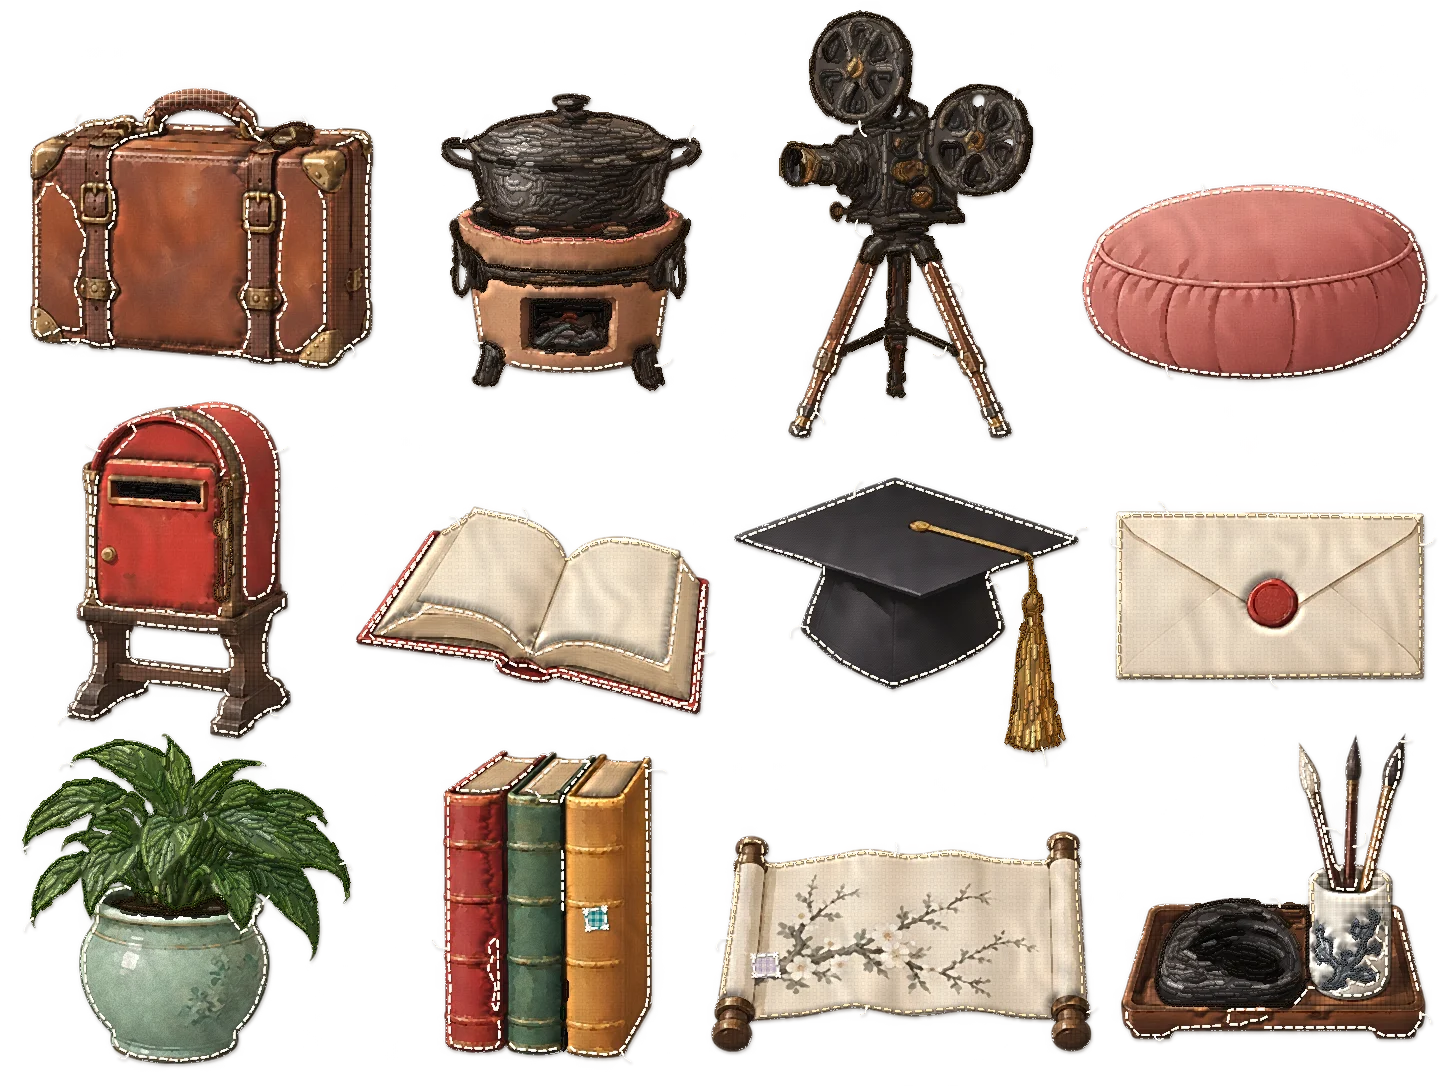
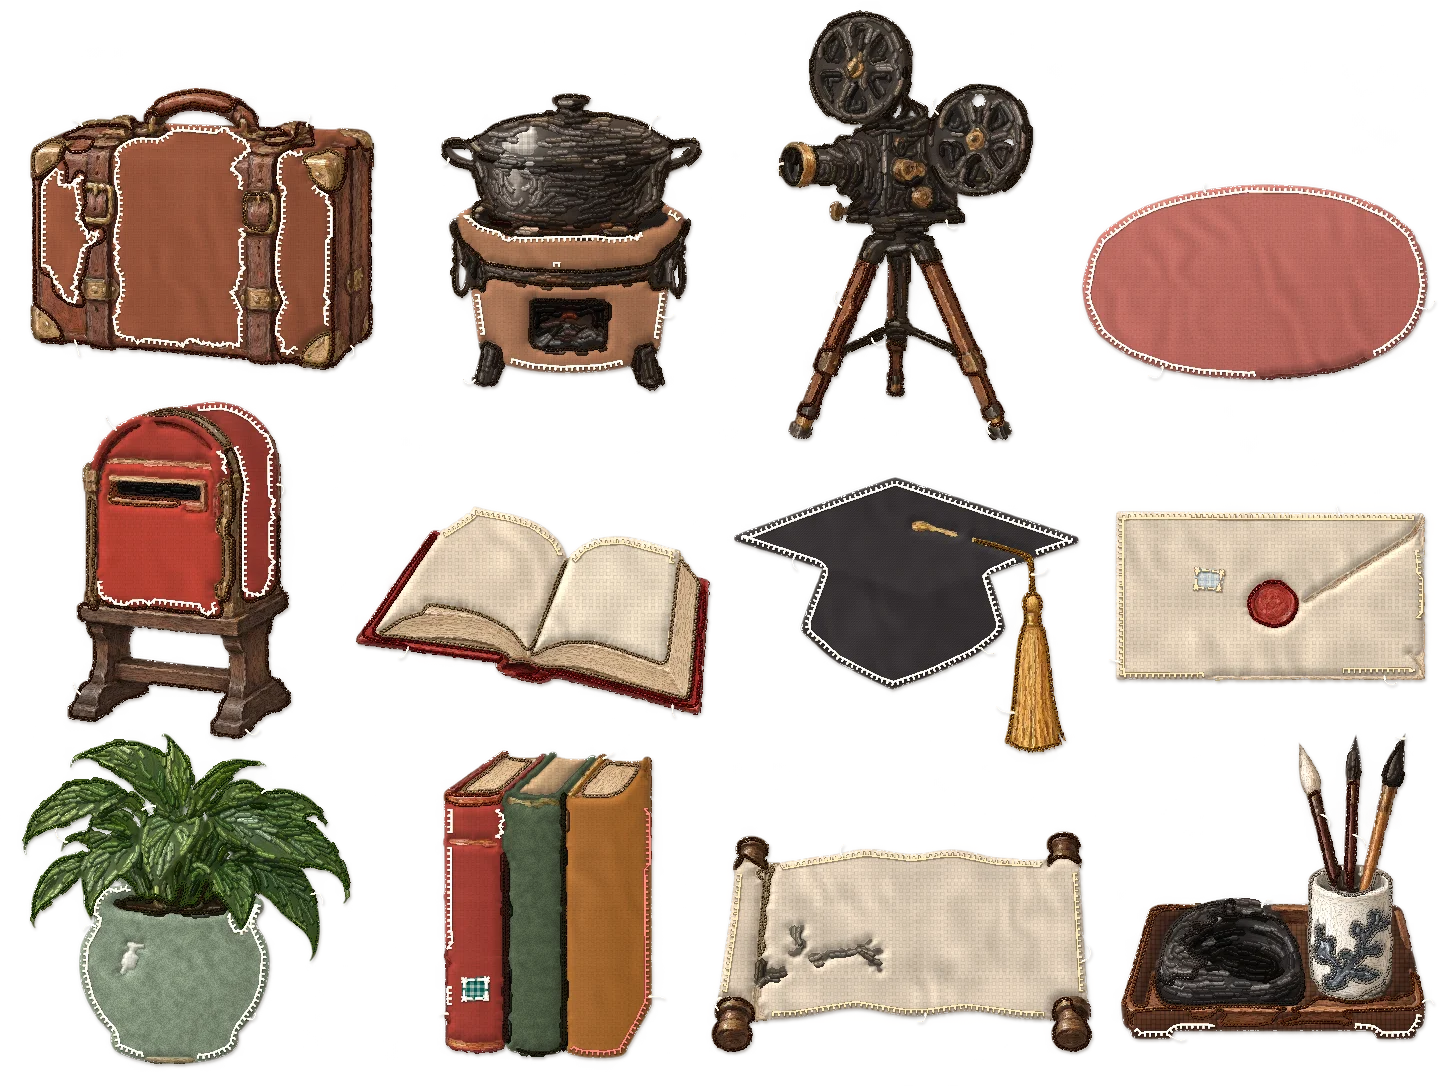
2D cloth: appliqué and embroidery together
- Plain areas become plain dyed cloth pieces (a finer cut, so windows,
  doors and pillars are their own pieces), with raw fraying edges where they
  lie on larger pieces, sewn down with blanket stitch.
- Detailed parts are embroidered: roofs and leaves in coarse satin floss with
  a chain-stitched edge; windows, brackets and carving in fine stitches in
  the painting's own colours, so their detail stays.
- Character, cats and faces unchanged from the previous pass.

Claude-Session: https://claude.ai/code/session_014GcVETBqDYWRJNBAnWSkWH

diff --git a/tools/fabricize.py b/tools/fabricize.py
@@ -77,7 +77,11 @@ EMB_DETAIL = 4.6     # pieces whose painted texture is busier than this (mean fi
 QUILT, QUILT_MIN = 0, 70    # quilting rows across large plain pieces: spacing and smallest piece (screen px)
 FLAT_PRINT = .3      # how much of the painting's fine detail stays printed on the flat cloth
 APP_MIN, APP_DE, APP_EDGE = 22, 10, 12  # scene pieces: smallest piece (screen px), merge colour step, edge guard
-SCENE_CUT = 'coarse'   # 'coarse': large pieces snapped to the painted outlines; 'appliqué': flat cut-cloth shapes
+SCENE_CUT = 'patch'    # 'patch': plain appliqué cloth pieces + embroidery; 'coarse': printed pieces; 'appliqué': scissor-cut shapes
+PATCH_CUT, PATCH_MIN = .55, 12 
+PATCH_DETAIL = 5.2   # appliqué: pieces with this much painted detail (windows, brackets, carving) are embroidered
+DETAIL_W, DETAIL_L, DETAIL_COVER = .7, 3.6, 3.2   # their fine stitches  # appliqué: a finer cut (windows, doors and pillars are pieces of their own)
+BLANKET_MIN, BLANKET_STEP = 34, 6.4   # pieces at least this big get blanket stitch; its spacing (screen px)
 SCISSORS = 2.6       # outlines are simplified to straight cuts within this tolerance (screen px)
 
 
@@ -314,12 +318,12 @@ def nearest_fill(pid, cover):
     return np.where(cover & ~src, near, pid).astype(np.int32)
 
 
-def cut_pieces(bgr_f, alpha, u, face, rig, rng):
+def cut_pieces(bgr_f, alpha, u, face, rig, rng, cut=None, piece_min=None):
     """Cut the picture into a few large pieces of cloth. The cut is made at a coarse scale (a working
     pixel is about three screen pixels), so fine painted texture such as roof tiles, bark or leaves
     does not split a piece: a whole roof stays one piece, with its tiles printed on it."""
     H, W = bgr_f.shape[:2]
-    ws = float(np.clip(CUT / u, .03, 1.0))                 # working pixels per source pixel
+    ws = float(np.clip((cut or CUT) / u, .03, 1.0))       # working pixels per source pixel
     sc = ws * u                                            # working pixels per screen pixel
     sw, sh = max(8, int(round(W * ws))), max(8, int(round(H * ws)))
     small = cv2.resize(bgr_f, (sw, sh), interpolation=cv2.INTER_AREA)
@@ -338,7 +342,7 @@ def cut_pieces(bgr_f, alpha, u, face, rig, rng):
     q = ((feat.reshape(-1, 1, 3) - centers[None]) ** 2).sum(2).argmin(1).reshape(sh, sw)
     q = mode_filter(q, 3)
     lab_small = cv2.cvtColor(sm8.astype(np.float32) / 255, cv2.COLOR_BGR2Lab)
-    piece_min = PIECE_MIN * (.45 if rig or face else 1)
+    piece_min = (piece_min or PIECE_MIN) * (.45 if rig or face else 1)
     min_px = (piece_min * sc) ** 2
     pid = merge_small(components(q, valid), min_px, lab_small)
     pid = merge_similar(pid, lab_small, MERGE_DE * (.6 if face else 1), EDGE_MAX)
@@ -506,6 +510,28 @@ class Needle:
 
     def coverage(self):
         return np.clip(self.thread[..., 3], 0, 1)
+
+
+def blanket(needle, pts, color, pid, k, inset, u):
+    """Blanket stitch, the appliqué stitch: bars across the cut edge, joined by a thread that runs
+    along the very edge of the piece."""
+    H, W = pid.shape
+    seg = np.sqrt(((pts[1:] - pts[:-1]) ** 2).sum(1)); Lc = np.concatenate([[0], np.cumsum(seg)])
+    step = BLANKET_STEP * u
+    if Lc[-1] < step * 2: return
+    prev = None
+    for d in np.arange(step * .5, Lc[-1], step):
+        i = int(np.clip(np.searchsorted(Lc, d) - 1, 0, len(seg) - 1)); v = (d - Lc[i]) / max(seg[i], 1e-6)
+        p = pts[i] * (1 - v) + pts[i + 1] * v
+        t = pts[i + 1] - pts[i]; t = t / (np.hypot(*t) + 1e-6); nrm = np.float32([-t[1], t[0]])
+        q = p + nrm * (inset + u)
+        X, Y = int(q[0]), int(q[1])
+        if 0 <= X < W and 0 <= Y < H and pid[Y, X] == k: nrm = -nrm          # point it outwards
+        edge = p + nrm * inset * .9
+        w = needle.w * .75
+        needle.stitch(p - nrm * inset * .2, edge, color, w)
+        if prev is not None and np.hypot(*(edge - prev)) < step * 2.2: needle.stitch(prev, edge, color, w)
+        prev = edge
 
 
 def runs_along(pts, inside, outside_ok, step):
@@ -999,9 +1025,11 @@ def fabricize(name, img, over=1):
         pid_s, ws = appliqué_pieces(bgr_f, alpha, u, rng)
         pid, _ = cut_with_scissors(pid_s, ws, W, H, u, alpha)
     else:
-        pid_s, ws = cut_pieces(bgr_f, alpha, u, face, rig, rng)
+        patch = kind == 'scene' and SCENE_CUT == 'patch'
+        pid_s, ws = cut_pieces(bgr_f, alpha, u, face, rig, rng, *((PATCH_CUT, PATCH_MIN) if patch else ()))
         pid = upsample_pieces(pid_s, W, H, ws)
-        pid = snap_pieces(pid, np.clip(bgr_f, 0, 255).astype(np.uint8), u)
+        if not patch: pid = snap_pieces(pid, np.clip(bgr_f, 0, 255).astype(np.uint8), u)
+    patch = kind == 'scene' and SCENE_CUT == 'patch'
     n = int(pid.max()) + 1
     lab_o = cv2.cvtColor(np.clip(bgr_f, 0, 255) / 255, cv2.COLOR_BGR2Lab)
     w8 = solid.ravel().astype(np.float64)
@@ -1023,6 +1051,13 @@ def fabricize(name, img, over=1):
         out = np.empty_like(lab_o)
         out[..., 0] = dye[pid, 0] + kl * (L_lo - mean[pid, 0]) + kf * L_fi
         out[..., 1:] = dye[pid, 1:] * (1 - kc) + cv2.GaussianBlur(lab_o[..., 1:], (0, 0), max(.6, .6 * u)) * kc
+        del L_lo
+    elif patch:
+        # appliqué: every piece is one plain dyed cloth, with just a little of the painting's light
+        L_lo = cv2.GaussianBlur(L_o, (0, 0), 4 * u)
+        out = np.empty_like(lab_o)
+        out[..., 0] = dye[pid, 0] + .15 * (L_lo - mean[pid, 0])
+        out[..., 1:] = dye[pid, 1:]
         del L_lo
     elif SCENE_CUT != 'appliqué':
         # flat colour straight from the painting, area by area (edge-preserving mean shift), with a
@@ -1048,7 +1083,8 @@ def fabricize(name, img, over=1):
     if rig:   # on the character, only the hair: dark, warm and textured (not the grey trousers)
         emb &= (dye[:, 0] < 55) & (np.hypot(dye[:, 1], dye[:, 2]) > 15) & (busy > 6)
     else:     # in the scenery: roof tiles, stone, leaves, and anything very busy
-        emb &= roofish | leafy | (busy > EMB_STRONG)
+        emb &= roofish | leafy | (busy > EMB_STRONG) | (patch & (busy > PATCH_DETAIL))
+    satin = emb & (roofish | leafy)       # coarse floss; the rest of the embroidery is fine thread painting
     emb[0] = False
     if os.environ.get('FAB_DEBUG'):
         for k in np.argsort(-area_screen)[:25]:
@@ -1060,6 +1096,8 @@ def fabricize(name, img, over=1):
     yy, xx = np.mgrid[0:H, 0:W].astype(np.float32)
     looms = {}
 
+    ak = 1.7 if patch else 1.0     # plain appliqué cloth shows its weave more
+
     def loom(c):
         if c not in looms:
             if c == 'linen': w = 1 + (weave(H, W, p * 1.1, rng, slub=True) - 1) * .42
@@ -1068,7 +1106,7 @@ def fabricize(name, img, over=1):
             elif c == 'burlap': w = 1 + (weave(H, W, p * 1.5, rng, coarse=True, slub=True) - 1) * .45
             elif c == 'felt': w = 1 + (_noise(H, W, max(1, .7 * u), rng) - .5) * .14 + (_noise(H, W, 6 * u, rng) - .5) * .08
             else: w = 1 + (weave(H, W, p * .85, rng) - 1) * .3          # gingham and plaid: cotton
-            looms[c] = w.astype(np.float32)
+            looms[c] = (1 + (w - 1) * ak).astype(np.float32)
         return looms[c]
     cloth = ['none'] * n
     for k in range(1, n): cloth[k] = cloth_v3(dye[k], area_screen[k], rng, rig)
@@ -1137,8 +1175,8 @@ def fabricize(name, img, over=1):
     hgt = cv2.GaussianBlur(hgt, (0, 0), max(.6, .35 * u))
     gx = cv2.Sobel(hgt, cv2.CV_32F, 1, 0, ksize=3) / 8; gy = cv2.Sobel(hgt, cv2.CV_32F, 0, 1, ksize=3) / 8
     lit = -(gx * -.55 + gy * -.83) * R
-    amp = .2 if rig or face else .3
-    ao = (.86 + .14 * hgt) if rig or face else (.7 + .3 * np.clip(dist / (2.2 * u), 0, 1) ** .7)
+    amp = .2 if rig or face else (.17 if patch else .3)
+    ao = (.86 + .14 * hgt) if rig or face else ((.84 + .16 * np.clip(dist / (2.2 * u), 0, 1) ** .7) if patch else (.7 + .3 * np.clip(dist / (2.2 * u), 0, 1) ** .7))
     col = col * (1 + amp * np.clip(lit, -1.6, 1.6))[..., None] * ao[..., None]
     if kind == 'scene' and not name.startswith(FUR):
         # the cloth is not ironed: soft folds wander across the large pieces
@@ -1156,6 +1194,12 @@ def fabricize(name, img, over=1):
     Rs = np.full_like(Rk, -1); Rs[dy:, dx:] = Rk[:H - dy, :W - dx]
     cast = cv2.GaussianBlur(((Rs > Rk) & solid).astype(np.float32), (0, 0), 1.3 * u)
     col = col * (1 - (.3 if not rig else .18) * cast)[..., None]
+    if patch:   # each cut piece shows its raw, fraying edge where it lies on a larger one
+        kr = max(3, int(round(2.8 * u)) | 1)
+        under_big = (cv2.erode(Rk, cv2.getStructuringElement(cv2.MORPH_ELLIPSE, (kr, kr))) < Rk) & solid
+        fib = _noise(H, W, max(1.0, .6 * u), rng)
+        fr = under_big & (fib > .38)
+        col[fr] = col[fr] * .86 + 30 * fib[fr][:, None]
     del Rk, Rs, cast, gx, gy, lit, dist, edge
     emb_cover = None
     src = cv2.GaussianBlur(np.clip(bgr_f, 0, 255), (0, 0), max(.6, .8 * u))
@@ -1188,6 +1232,11 @@ def fabricize(name, img, over=1):
         if skin is not None: region &= ~(cv2.dilate(skin.astype(np.uint8), np.ones((3, 3), np.uint8)) > 0)
         if rig:   # hair: fine, dense thread painting along its flow
             col, emb_cover = embroider(col, region, src, L_o, u, rng, sum(map(ord, name)) * 131, HAIR_W, HAIR_L, HAIR_COVER, True, False, True)
+        elif patch:   # roofs and leaves in coarse floss; windows, brackets and carving in fine stitches
+            r1 = region & satin[pid]; r2 = region & ~satin[pid]
+            col, c1 = embroider(col, r1, src, L_o, u, rng, sum(map(ord, name)) * 131)
+            col, c2 = embroider(col, r2, src, L_o, u, rng, sum(map(ord, name)) * 173, DETAIL_W, DETAIL_L, DETAIL_COVER, True, False, True)
+            emb_cover = np.maximum(c1, c2)
         else:
             col, emb_cover = embroider(col, region, src, L_o, u, rng, sum(map(ord, name)) * 131)
     gold = gold_threads(cv2.GaussianBlur(lab_o, (0, 0), max(.6, .4 * u)), solid, 'night' in name) if name.startswith(HUMAN) else None
@@ -1263,7 +1312,10 @@ def fabricize(name, img, over=1):
             pts = smooth_closed(smooth_closed(c, max(2, int(round(2.6 * u)))), max(2, int(round(1.6 * u))))
             pts = cv2.approxPolyDP(pts.reshape(-1, 1, 2), max(1.0, 1.6 * u), True).reshape(-1, 2).astype(np.float32)
             for run in runs_along(pts, None, outside_ok, max(1.0, .8 * u)):
-                needle.run(run + np.float32([x0, y0]), thr, rng)
+                if patch and area_screen[k] >= BLANKET_MIN ** 2:
+                    blanket(needle, run + np.float32([x0, y0]), thr, pid, k, inset, u)
+                else:
+                    needle.run(run + np.float32([x0, y0]), thr, rng)
 
     if kind == 'scene' and not fur:
         for k in range(1, n):

diff --git a/README.md b/README.md
@@ -145,7 +145,7 @@ The walk reads as one handscroll: a title, a prologue for Dalian, the gate, the 
 
 ## The fabric collage look (2D world)
 
-The 2D world is an embroidered fabric collage. Every painting is rebuilt offline as a few large pieces of cloth whose edges follow the painted outlines: flat dyed cloth with a faint print of the painting, padded so it rises from its edges, softly folded, casting a soft shadow on the piece below, and sewn down with thick, widely spaced unbleached-cotton running stitches. Each material gets its own stitch: roof tiles and leaves are filled with thick satin-like floss that follows the tile rows and leaves, with the cloth showing between stitches and a chain stitch along their edges; hair is worked in fine, dense split stitches along its flow; the cats are covered in short fine stitches that make them fluffy, with their eyes and noses left clear. Hanjing's clothes are in matching cloth: gabardine twill for the trench coat, silk with a soft sheen for the shirt, herringbone suiting for the trousers, grained leather for the shoes, and at night black silk for the qipao with its leaves in gold thread. Her face keeps the painting itself, one even skin tone with clear features; where a face is drawn large, only the eyes, brows, nose and mouth are worked in tiny stitches (nothing on jaw lines or shading, which would age her). Outer edges are frayed with a few loose threads, and a couple of gingham patches have cross-stitched corners. Stitches are seeded by position, so the walking frames get matching stitches.
+The 2D world is appliqué and embroidery together. Every painting is rebuilt offline: its plain areas (walls, pillars, doors, coat) become pieces of plain dyed cloth, cut along the painted outlines, slightly padded and softly folded, each with a raw fraying edge where it lies on a larger piece and sewn down with a blanket stitch; its detailed parts are embroidered instead. Each material gets its own stitch: roof tiles and leaves are filled with thick satin-like floss that follows the tile rows and leaves, with the cloth showing between stitches and a chain stitch along their edges; windows, brackets and carving are worked in fine stitches in the painting's own colours, so their detail stays; hair is worked in fine, dense split stitches along its flow; the cats are covered in short fine stitches that make them fluffy, with their eyes and noses left clear. Hanjing's clothes are in matching cloth: gabardine twill for the trench coat, silk with a soft sheen for the shirt, herringbone suiting for the trousers, grained leather for the shoes, and at night black silk for the qipao with its leaves in gold thread. Her face keeps the painting itself, one even skin tone with clear features; where a face is drawn large, only the eyes, brows, nose and mouth are worked in tiny stitches (nothing on jaw lines or shading, which would age her). Outer edges are frayed with a few loose threads, and a couple of gingham patches have cross-stitched corners. Stitches are seeded by position, so the walking frames get matching stitches.
 
 The sky is a soft linen quilt on a burlap backing (felt at night) with torn edges, and the drawn ground and water get the same linen. Depth comes from layering, as in a fabric shadow box: the far, middle and near bands of scenery each cast a soft shadow on the band behind, the mist is torn strips of sheer tulle, and a place lifts slightly off the cloth when you point at it.
 
